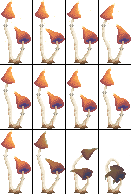
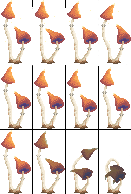
minor npc changes/attack changes

Changed region(s): [[0.0, 0.0, 1.0, 0.3402]]

diff --git a/src/NPCs/Mushroom1.java b/src/NPCs/Mushroom1.java
@@ -52,55 +52,55 @@ public class Mushroom1 extends NPC {
         return new HashMap<String, Frame[]>() {{
             put("STAND_LEFT", new Frame[] {
                 new FrameBuilder(spriteSheet.getSprite(0, 0))
-                    .withScale(3)
-                    .withBounds(3, 5, 26, 32)
+                    .withScale(2)
+                    .withBounds(3, 5, 32, 32)
                     .withImageEffect(ImageEffect.FLIP_HORIZONTAL)
                     .build()
             });
             put("STAND_RIGHT", new Frame[] {
                 new FrameBuilder(spriteSheet.getSprite(0, 0))
-                    .withScale(3)
-                    .withBounds(3, 5, 26, 32)
+                    .withScale(2)
+                    .withBounds(3, 5, 32, 32)
                     .build()
             });
             put("WALK_LEFT", new Frame[] {
                 new FrameBuilder(spriteSheet.getSprite(0, 0), 25)
-                    .withScale(3)
-                    .withBounds(3, 5, 26, 32)
-                    .withImageEffect(ImageEffect.FLIP_HORIZONTAL)
-                    .build(),
-                new FrameBuilder(spriteSheet.getSprite(0, 1), 25)
-                    .withScale(3)
-                    .withBounds(3, 5, 26, 32)
+                    .withScale(2)
+                    .withBounds(3, 5, 32, 32)
                     .withImageEffect(ImageEffect.FLIP_HORIZONTAL)
                     .build(),
                 new FrameBuilder(spriteSheet.getSprite(0, 2), 25)
-                    .withScale(3)
-                    .withBounds(3, 5, 26, 32)
+                    .withScale(2)
+                    .withBounds(3, 5, 32, 32)
+                    .withImageEffect(ImageEffect.FLIP_HORIZONTAL)
+                    .build(),
+                new FrameBuilder(spriteSheet.getSprite(0, 2), 25)
+                    .withScale(2)
+                    .withBounds(3, 5, 32, 32)
                     .withImageEffect(ImageEffect.FLIP_HORIZONTAL)
                     .build(),
                 new FrameBuilder(spriteSheet.getSprite(0, 3), 25)
-                    .withScale(3)
-                    .withBounds(3, 5, 26, 32)
+                    .withScale(2)
+                    .withBounds(3, 5, 32, 32)
                     .withImageEffect(ImageEffect.FLIP_HORIZONTAL)
                     .build()
             });
             put("WALK_RIGHT", new Frame[] {
                 new FrameBuilder(spriteSheet.getSprite(0, 0), 25)
-                    .withScale(3)
-                    .withBounds(3, 5, 26, 32)
-                    .build(),
-                new FrameBuilder(spriteSheet.getSprite(0, 1), 25)
-                    .withScale(3)
-                    .withBounds(3, 5, 26, 32)
+                    .withScale(2)
+                    .withBounds(3, 5, 32, 32)
                     .build(),
                 new FrameBuilder(spriteSheet.getSprite(0, 2), 25)
-                    .withScale(3)
-                    .withBounds(3, 5, 26, 32)
+                    .withScale(2)
+                    .withBounds(3, 5, 32, 32)
+                    .build(),
+                new FrameBuilder(spriteSheet.getSprite(0, 2), 25)
+                    .withScale(2)
+                    .withBounds(3, 5, 32, 32)
                     .build(),
                 new FrameBuilder(spriteSheet.getSprite(0, 3), 25)
-                    .withScale(3)
-                    .withBounds(3, 5, 26, 32)
+                    .withScale(2)
+                    .withBounds(3, 5, 32, 32)
                     .build()
             });
         }};

diff --git a/src/Projectiles/ProjectileAttack.java b/src/Projectiles/ProjectileAttack.java
@@ -9,15 +9,10 @@ import Utils.ImageUtils;
 
 import java.awt.Color;
 
-/**
- * Fires a projectile in the direction the NPC is facing (left or right),
- * with enough offset to prevent self-collision.
- */
 public class ProjectileAttack implements EnemyAttack {
 
     @Override
     public void perform(NPC npc, Player player) {
-        // Create a red projectile sprite
         Frame projectileFrame = new Frame(
             ImageUtils.createSolidImage(new Color(255, 0, 0), 20, 20),
             ImageEffect.NONE,
@@ -25,14 +20,11 @@ public class ProjectileAttack implements EnemyAttack {
             null
         );
 
-        // Center of NPC
         float spawnX = npc.getX() + npc.getBounds().getWidth() / 2f;
         float spawnY = npc.getY() + npc.getBounds().getHeight() / 2f;
 
-        // Determine facing direction
         boolean facingRight = npc.getCurrentAnimationName().toUpperCase().contains("RIGHT");
 
-        // Offset projectile further in front (to avoid self-collision)
         float offset = npc.getBounds().getWidth() * 1.0f + 20;
 
         if (facingRight) {
@@ -41,13 +33,11 @@ public class ProjectileAttack implements EnemyAttack {
             spawnX -= offset;
         }
 
-        // Starting and target points based on direction
         Point start = new Point(spawnX, spawnY);
         java.awt.Point target = facingRight
             ? new java.awt.Point((int) (spawnX + 100), (int) spawnY)
             : new java.awt.Point((int) (spawnX - 100), (int) spawnY);
 
-        // Create and add projectile to map
         Projectile projectile = new Projectile(spawnX, spawnY, projectileFrame, start, target);
         npc.getMap().addProjectile(projectile);
     }
@@ -59,6 +49,6 @@ public class ProjectileAttack implements EnemyAttack {
 
     @Override
     public int getCooldown() {
-        return 90; // frames between attacks (~1.5s at 60fps)
+        return 90;
     }
 }

diff --git a/src/Projectiles/EnemyProjectile.java b/src/Projectiles/EnemyProjectile.java
@@ -1,0 +1,37 @@
+package Projectiles;
+
+import GameObject.Frame;
+import Level.MapCollisionHandler;
+import Level.NPC;
+import Level.Player;
+import Utils.Point;
+
+public class EnemyProjectile extends Projectile {
+
+    private NPC owner;
+
+    public EnemyProjectile(float x, float y, Frame frame, Point start, java.awt.Point target, NPC owner) {
+        super(x, y, frame, start, target);
+        this.owner = owner;
+    }
+
+    @Override
+    public void update(Player player) {
+        super.performAction(player);
+        super.update();
+
+        if (map == null || isHidden()) return;
+
+        if (this.getBounds().intersects(player.getBounds())) {
+            player.takeDamage(1);
+            this.isHidden = true;
+            map.getProjectiles().remove(this);
+            return;
+        }
+
+        if (MapCollisionHandler.isCollidingWithMapEntity(this, map, null)) {
+            this.isHidden = true;
+            map.getProjectiles().remove(this);
+        }
+    }
+}

diff --git a/src/Projectiles/AOEAttack.java b/src/Projectiles/AOEAttack.java
@@ -15,7 +15,7 @@ import java.awt.Color;
  */
 public class AOEAttack implements EnemyAttack {
 
-    private int projectileCount = 16;   // number of projectiles in the ring
+    private int projectileCount = 28;   // number of projectiles in the ring
     private int range = 200;            // how far projectiles travel outward
     private int cooldown = 180;         // 3 seconds at 60 fps
 
@@ -35,7 +35,7 @@ public class AOEAttack implements EnemyAttack {
 
         // Effective spawn distance: just outside hitbox + 30px
         float npcRadius = (float) (Math.max(npc.getBounds().getWidth(), npc.getBounds().getHeight()) / 2f);
-        float spawnDistance = npcRadius + 30;
+        float spawnDistance = npcRadius + 45;
 
         // Create projectiles in a ring
         for (int i = 0; i < projectileCount; i++) {

diff --git a/src/NPCs/Mushroom3.java b/src/NPCs/Mushroom3.java
@@ -10,7 +10,7 @@ import GameObject.ImageEffect;
 import GameObject.SpriteSheet;
 import Level.NPC;
 import Level.Player;
-import Projectiles.LaserAttack; // ✅ Import the laser attack
+import Projectiles.LaserAttack;
 import Utils.Direction;
 import Utils.Point;
 
@@ -24,7 +24,6 @@ public class Mushroom3 extends NPC {
         super(id, location.x, location.y, new SpriteSheet(ImageLoader.load("Mushroom3.png"), 32, 65), "WALK_RIGHT");
         this.setHealth(3);
 
-        // ✅ Assign the laser beam attack
         this.attack = new LaserAttack();
     }
 

diff --git a/src/NPCs/Mushroom2.java b/src/NPCs/Mushroom2.java
@@ -10,7 +10,7 @@ import GameObject.ImageEffect;
 import GameObject.SpriteSheet;
 import Level.NPC;
 import Level.Player;
-import Projectiles.AOEAttack; // ✅ Import AOE attack
+import Projectiles.AOEAttack;
 import Utils.Direction;
 import Utils.Point;
 
@@ -23,7 +23,6 @@ public class Mushroom2 extends NPC {
         super(id, location.x, location.y, new SpriteSheet(ImageLoader.load("Mushroom2.png"), 32, 32), "STAND_RIGHT");
         this.setHealth(3);
 
-        // ✅ Assign an AOE attack to this mushroom
         this.attack = new AOEAttack();
     }
 

diff --git a/src/Projectiles/EnemyAttack.java b/src/Projectiles/EnemyAttack.java
@@ -4,12 +4,9 @@ import Level.NPC;
 import Level.Player;
 
 public interface EnemyAttack {
-    // Triggers the attack action
     void perform(NPC npc, Player player);
 
-    // Returns true if the attack can be used based on range
     boolean isInRange(NPC npc, Player player);
 
-    // Time in frames before the next attack
     int getCooldown();
 }

diff --git a/src/Utils/Team.java b/src/Utils/Team.java
@@ -1,0 +1,6 @@
+package Utils;
+
+public enum Team {
+    PLAYER,
+    ENEMY
+}
